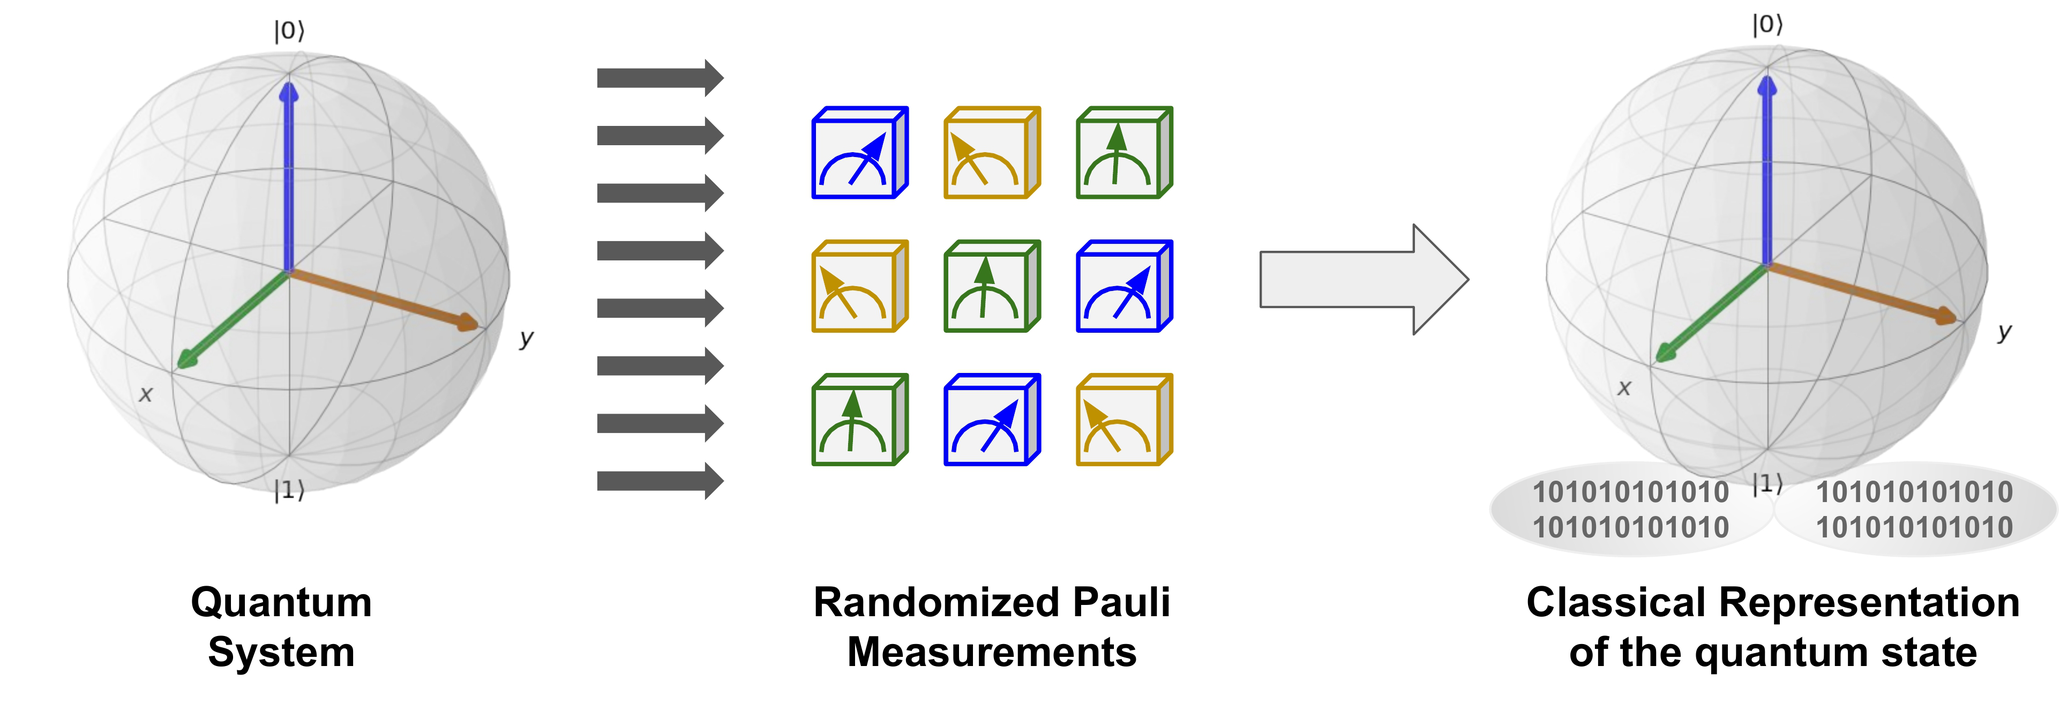
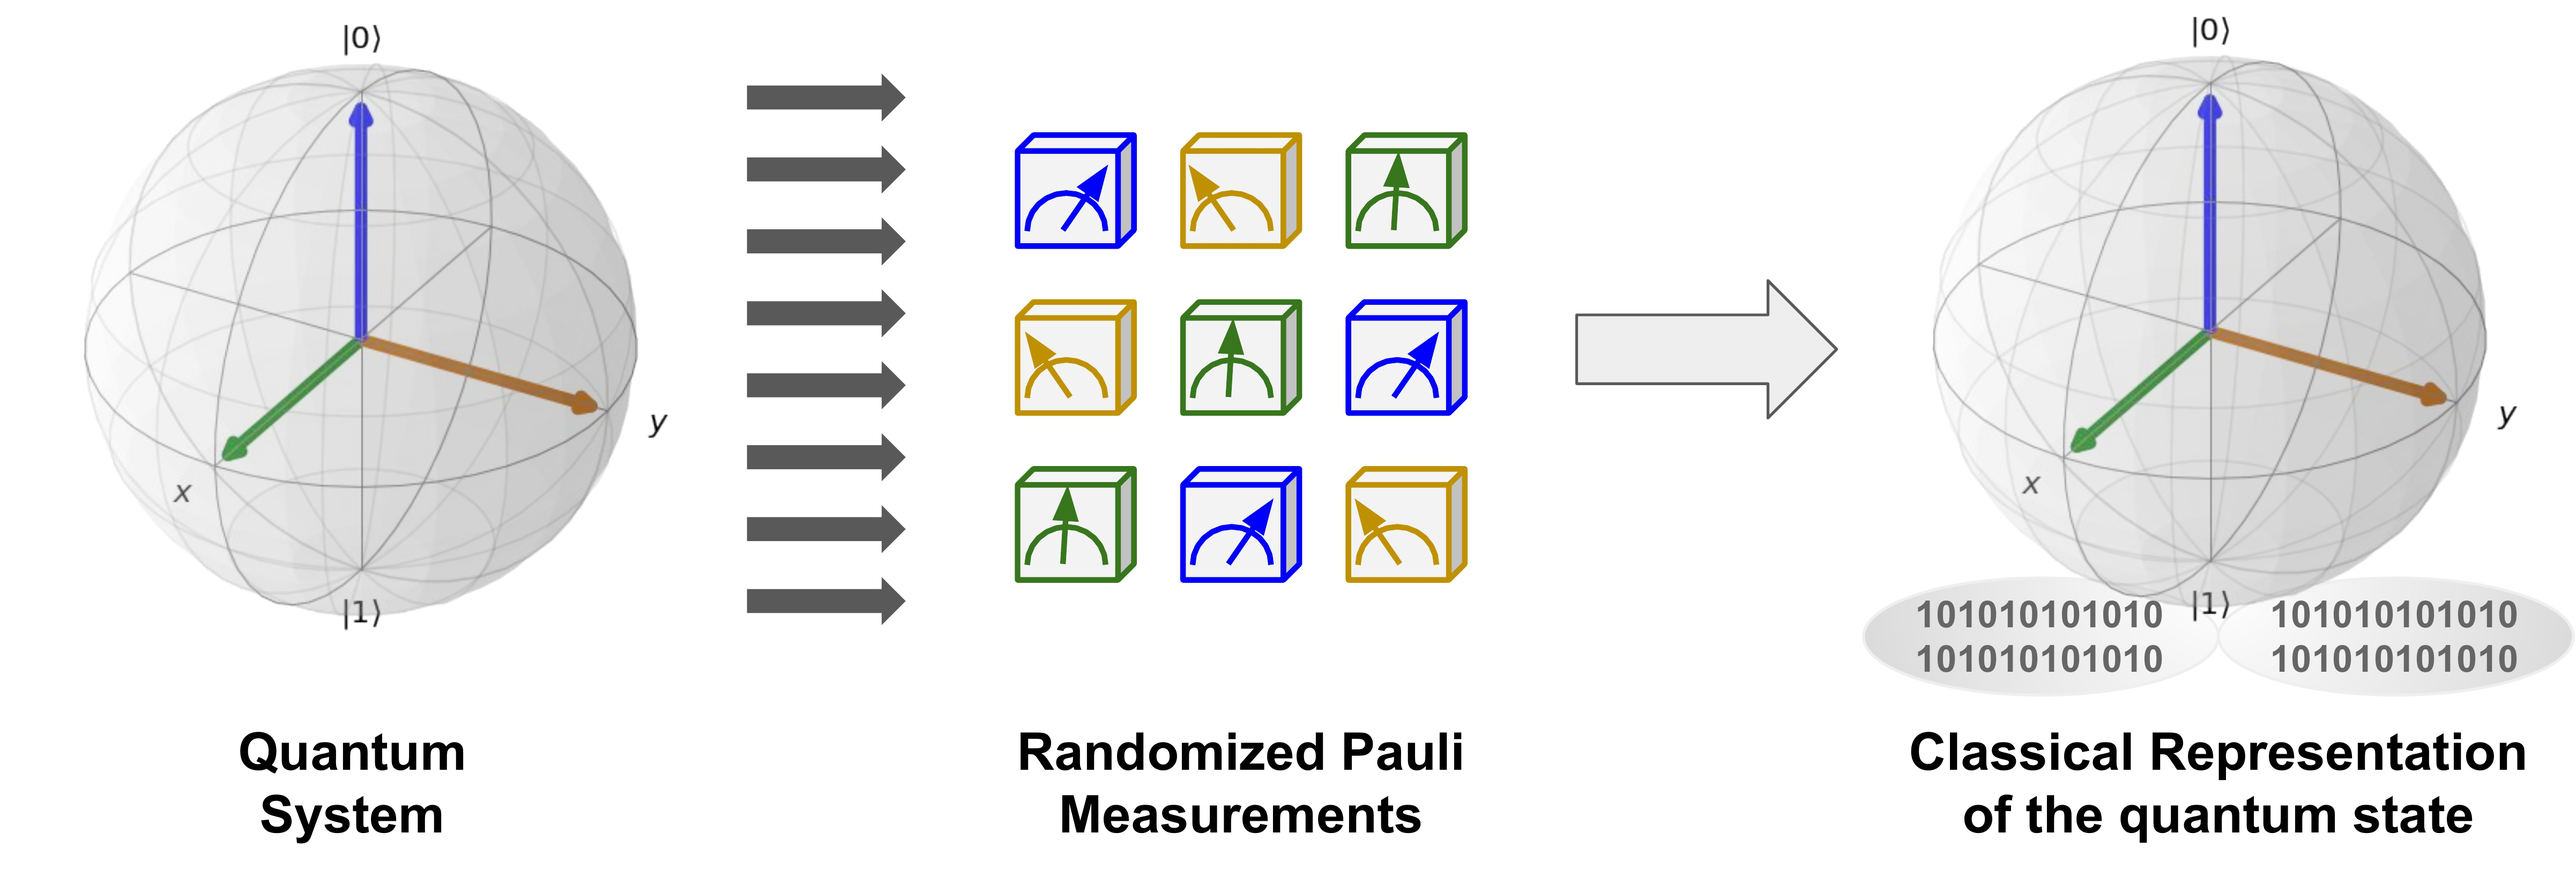
improve resolution

diff --git a/demonstrations/tutorial_ml_classical_shadows.py b/demonstrations/tutorial_ml_classical_shadows.py
@@ -238,21 +238,21 @@ plt.show()
 
 ######################################################################
 # Now that we have built our Heisenberg model, the next step is to construct
-# a classical shadow representation for it. First we look at , 
-# To build an an approximate classical representation of an :math:`n`-qubit
-# quantum state :math:`\rho`, we perform randomized single-qubit
-# measurements on :math:`T`-copies of :math:`\rho`. Each measurement is
-# chosen randomly among the Pauli bases :math:`X`, :math:`Y`, or :math:`Z`
-# to yeild random :math:`n` pure product states :math:`|s_i\rangle` for each copy:
+# a classical shadow representation for it. To build an approximate
+# classical representation of an :math:`n`-qubit quantum state :math:`\rho`,
+# we perform randomized single-qubit measurements on :math:`T`-copies of
+# :math:`\rho`. Each measurement is chosen randomly among the Pauli bases
+# :math:`X`, :math:`Y`, or :math:`Z` to yeild random :math:`n` pure product
+# states :math:`|s_i\rangle` for each copy:
 #
 # .. math::  S_T(\rho) = \big\{|s_{i}^{(t)}\rangle: i\in\{1,\ldots, n\} t\in\{1,\ldots, T\} \big\} \in \{|0\rangle, |1\rangle, |+\rangle, |-\rangle, |i+\rangle, |i-\rangle\}.
 #
 # Each of the :math:`|s_i^{(t)}\rangle` provides us with classical access
 # to a single snapshot of the :math:`\rho`, and the :math:`nT`
 # measurements yield the complete snapshot :math:`S_{T}`, which requires
-# just :math:`3nT` bits to be stored in classical memory.
+# just :math:`3nT` bits to be stored in classical memory. This is discussed
+# in further details in our previous demo about classical shadows [#tutorial]_.
 #
-
 
 ######################################################################
 # .. figure::  /demonstrations/ml_classical_shadows/class_shadow_prep.png
@@ -444,6 +444,7 @@ bar = fig.colorbar(im, pad=0.05, shrink=0.82)
 bar.set_label(r"$C_{ij}$", fontsize=18, rotation=0)
 bar.ax.tick_params(labelsize=14)
 plt.show()
+
 
 
 ######################################################################
@@ -853,6 +854,11 @@ plt.show()
 #    H. Y. Huang, R. Kueng, G. Torlai, V. V. Albert, J. Preskill, "Provably
 #    efficient machine learning for quantum many-body problems",
 #    `arXiv:2106.12627 [quant-ph] <https://arxiv.org/abs/2106.12627>`__ (2021)
+# 
+# .. [#tutorial]
+#
+#    R. Wiersema & B. Doolittle, `"Classical Shadows",
+#    <https://pennylane.ai/qml/demos/tutorial_classical_shadows.html>`__ (2021)
 #
 # .. [#neurtangkernel]
 #
